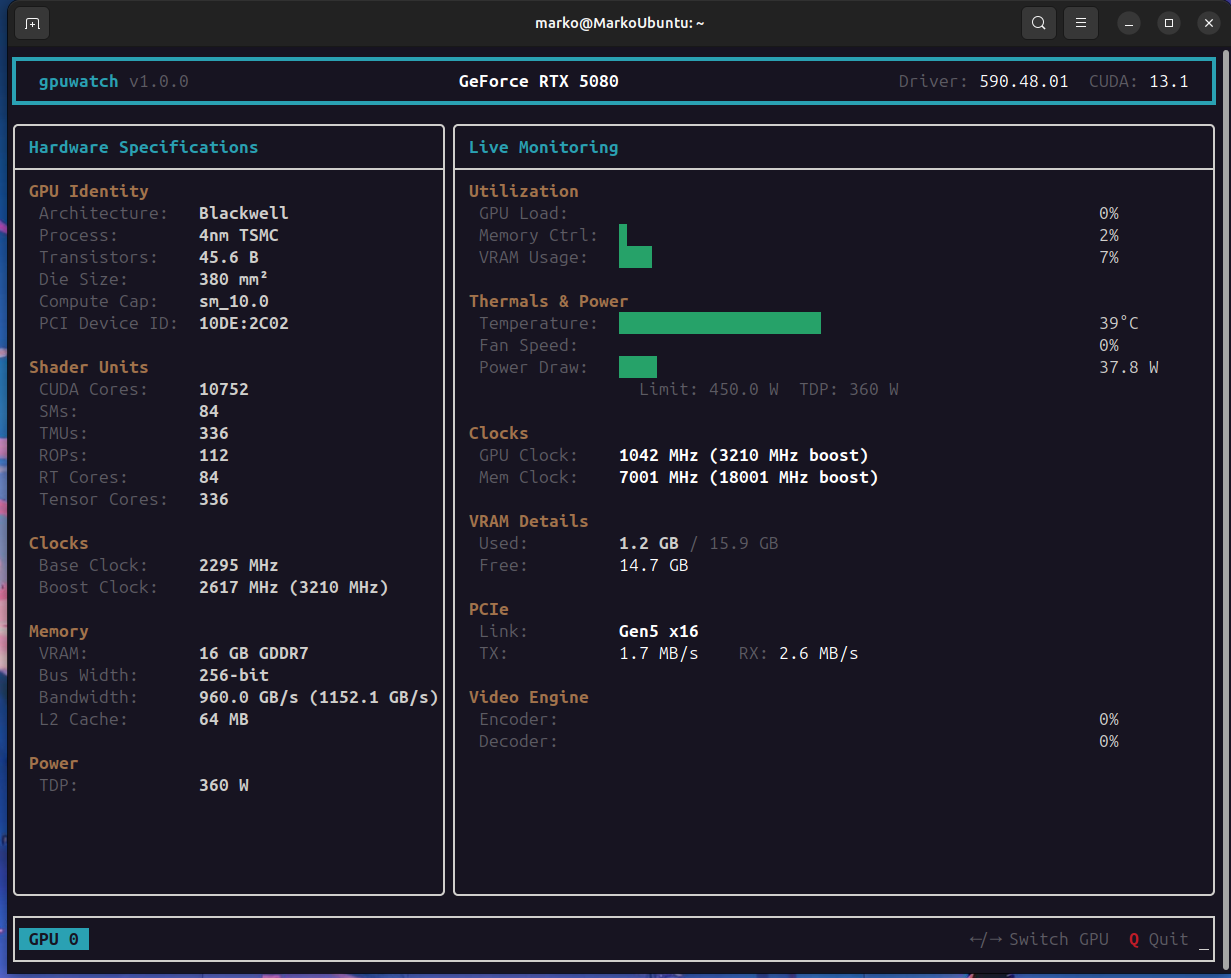
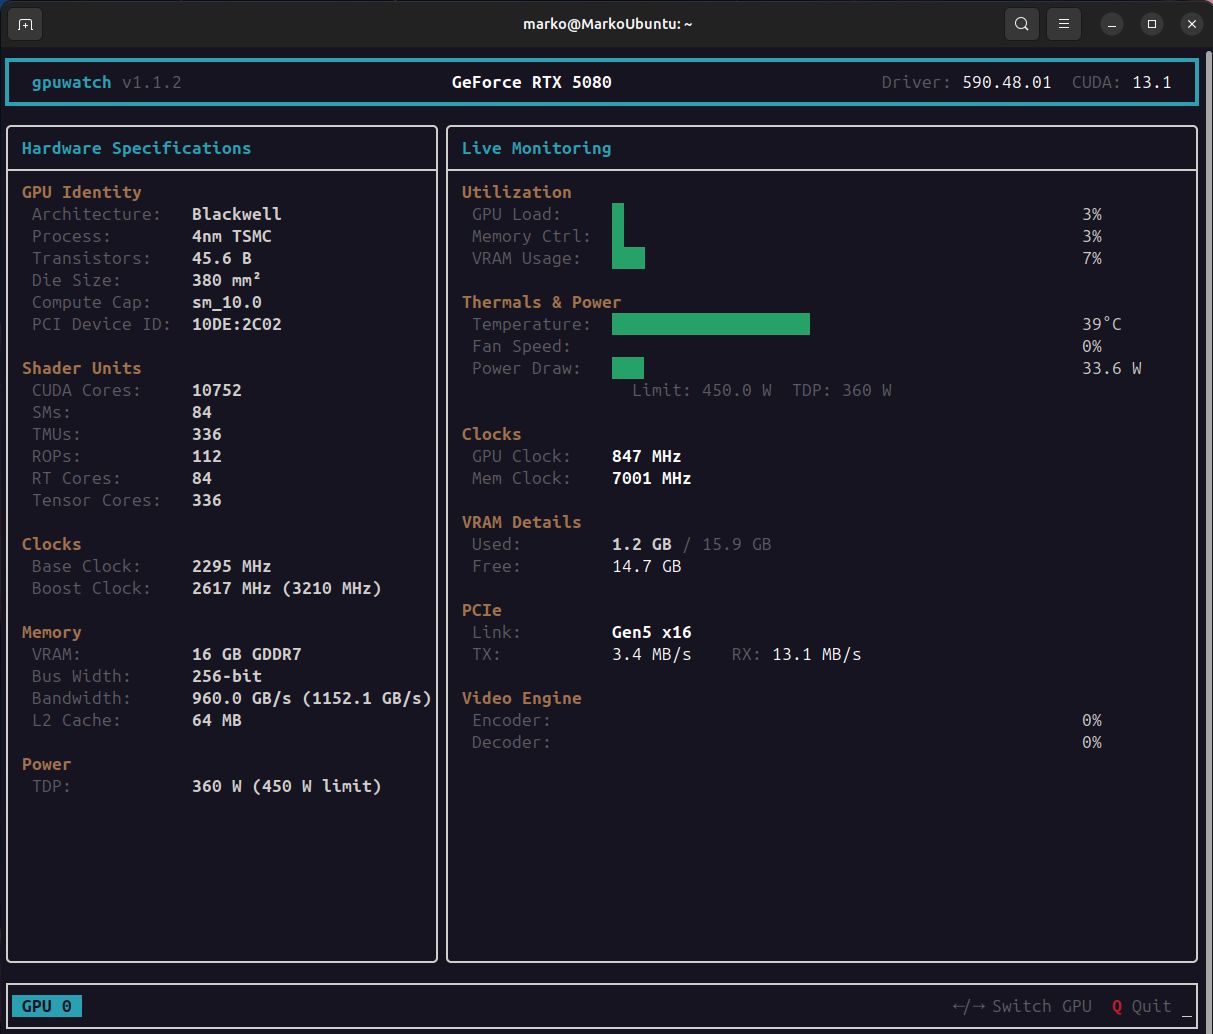
v1.1.3 — Spec panel shows stock values with OC in brackets
- Boost clock, bandwidth, and TDP show spec value first with
  live NVML value in brackets only when overclocked
- Auto-resize terminal to 120x45 minimum on launch
- Update screenshot

diff --git a/src/tui.cpp b/src/tui.cpp
@@ -185,7 +185,7 @@ Element GpuWatchTui::render_specs_panel(const GpuSpecs& specs, const GpuLiveStat
         std::string boost_str = fmt_mhz(specs.boost_clock_mhz);
         if (stats.clock_gpu_max_mhz > 0 &&
             (int)stats.clock_gpu_max_mhz != specs.boost_clock_mhz)
-            boost_str += " (" + fmt_mhz(stats.clock_gpu_max_mhz) + " theoretical)";
+            boost_str += " (" + fmt_mhz(stats.clock_gpu_max_mhz) + ")";
         rows.push_back(spec_row("  Boost Clock:", boost_str));
     }
 
@@ -197,12 +197,15 @@ Element GpuWatchTui::render_specs_panel(const GpuSpecs& specs, const GpuLiveStat
                                  " " + specs.memory_type));
     if (specs.memory_bus_width > 0)
         rows.push_back(spec_row("  Bus Width:", std::to_string(specs.memory_bus_width) + "-bit"));
-    if (specs.memory_bus_width > 0 && stats.clock_mem_max_mhz > 0) {
-        float live_bw = stats.clock_mem_max_mhz * 2.0f *
-                        specs.memory_bus_width / 8000.0f;
-        rows.push_back(spec_row("  Bandwidth:", fmt_float(live_bw) + " GB/s"));
-    } else if (specs.memory_bandwidth_gbs > 0) {
-        rows.push_back(spec_row("  Bandwidth:", fmt_float(specs.memory_bandwidth_gbs) + " GB/s"));
+    if (specs.memory_bandwidth_gbs > 0) {
+        std::string bw_str = fmt_float(specs.memory_bandwidth_gbs) + " GB/s";
+        if (specs.memory_bus_width > 0 && stats.clock_mem_max_mhz > 0) {
+            float live_bw = stats.clock_mem_max_mhz * 2.0f *
+                            specs.memory_bus_width / 8000.0f;
+            if (std::abs(live_bw - specs.memory_bandwidth_gbs) > 1.0f)
+                bw_str += " (" + fmt_float(live_bw) + " GB/s)";
+        }
+        rows.push_back(spec_row("  Bandwidth:", bw_str));
     }
     if (specs.l2_cache_mb > 0)
         rows.push_back(spec_row("  L2 Cache:", fmt_l2(specs.l2_cache_mb)));

diff --git a/src/main.cpp b/src/main.cpp
@@ -6,6 +6,8 @@
 #include <cstdlib>
 #include <string>
 #include <filesystem>
+#include <sys/ioctl.h>
+#include <unistd.h>
 
 namespace fs = std::filesystem;
 
@@ -99,6 +101,16 @@ int main(int argc, char* argv[]) {
         fprintf(stderr,
             "WARNING: Failed to open GPU specs database: %s\n\n",
             db_path.c_str());
+    }
+
+    struct winsize ws;
+    if (ioctl(STDOUT_FILENO, TIOCGWINSZ, &ws) == 0) {
+        int min_cols = 120, min_rows = 45;
+        if (ws.ws_col < min_cols || ws.ws_row < min_rows) {
+            int cols = std::max((int)ws.ws_col, min_cols);
+            int rows = std::max((int)ws.ws_row, min_rows);
+            printf("\033[8;%d;%dt", rows, cols);
+        }
     }
 
     GpuWatchTui tui(monitor, database);